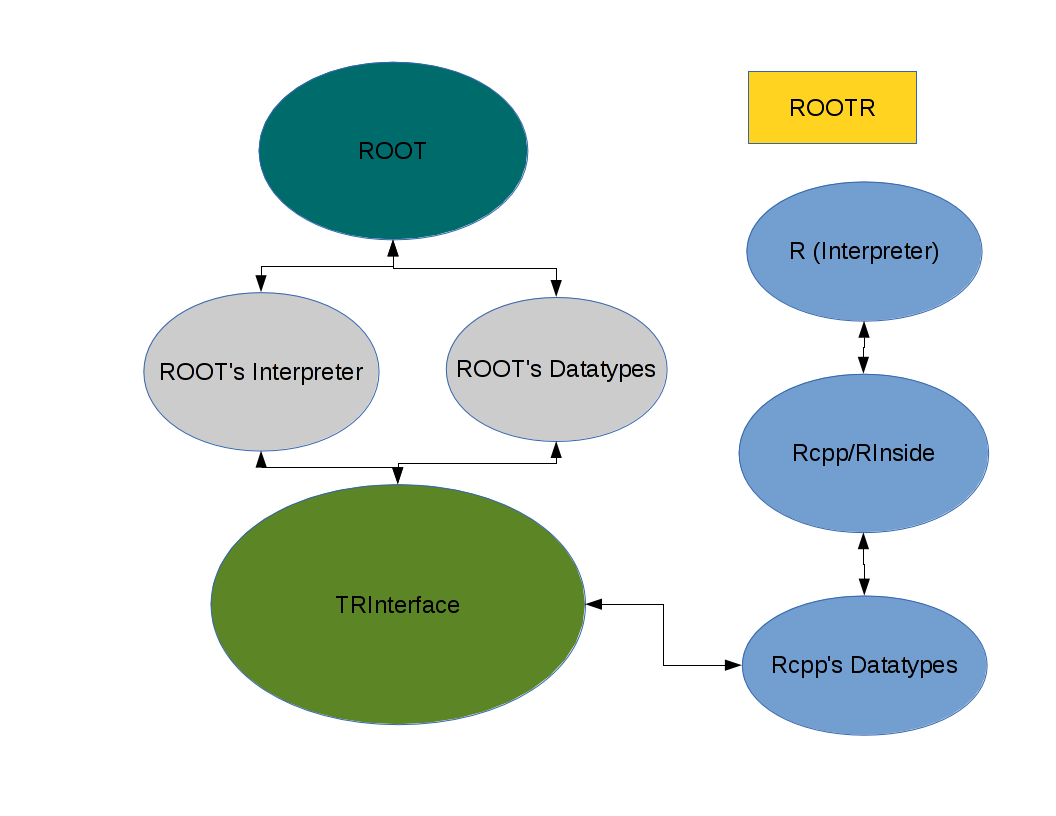
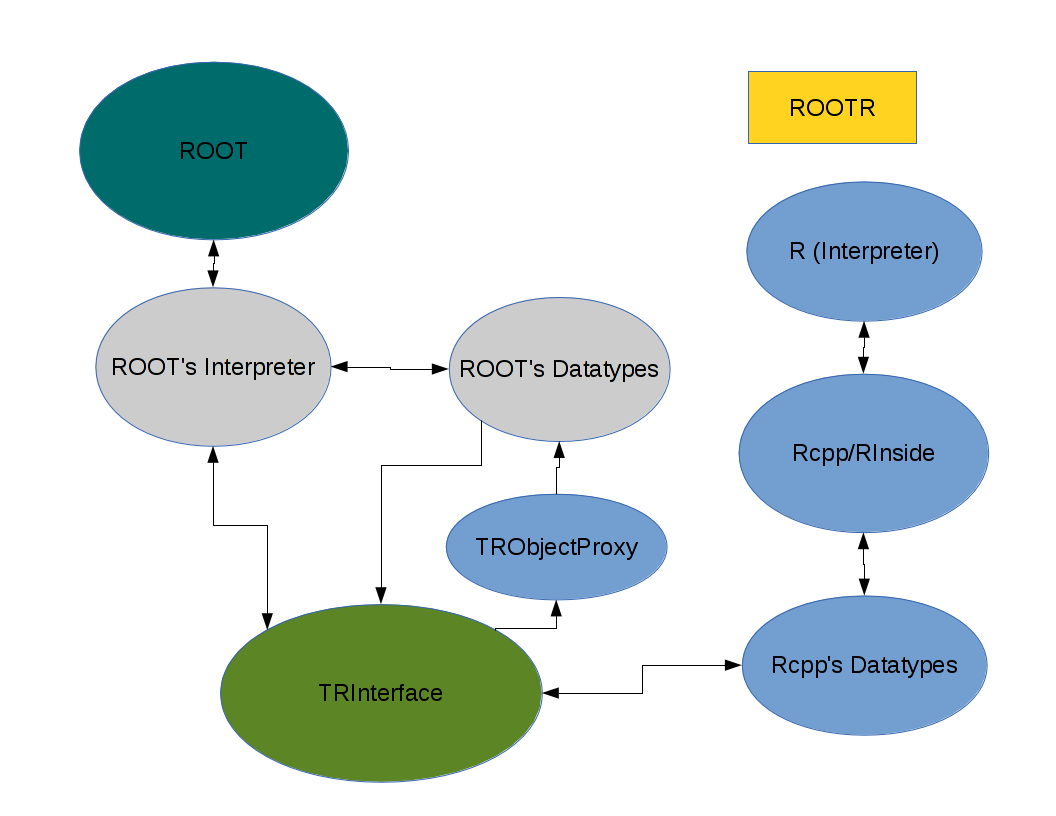
modified basic design image according to the new class TRObjectProxy

diff --git a/test.C b/test.C
@@ -13,7 +13,6 @@ r.assign(TString("ROOTR"),"str");
 r.parseEvalQ("cat(v)");
 r.parseEvalQ("summary(v)");
 r.parseEvalQ("v<-2*v");
-r.parseEvalQ("version");
 
 robj=r.parseEval("str");
 TString str=robj.toString();
